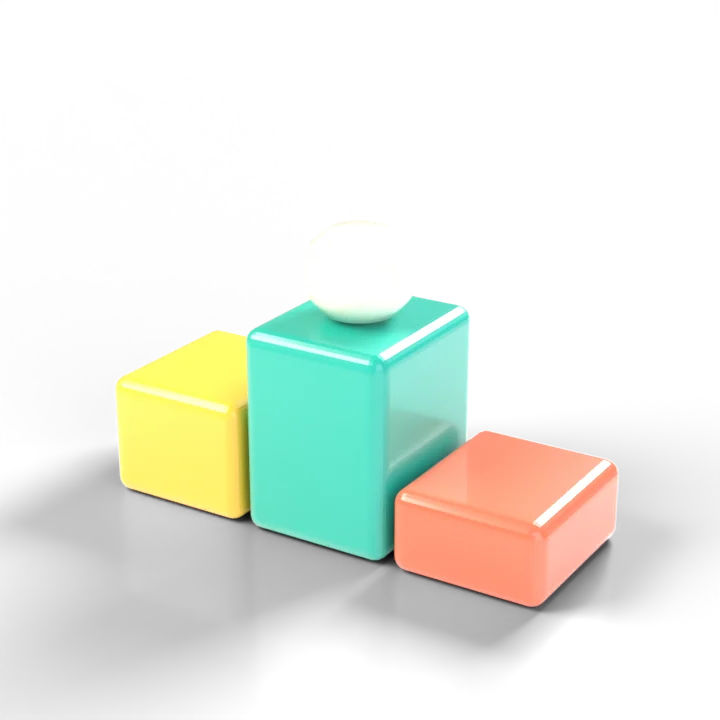
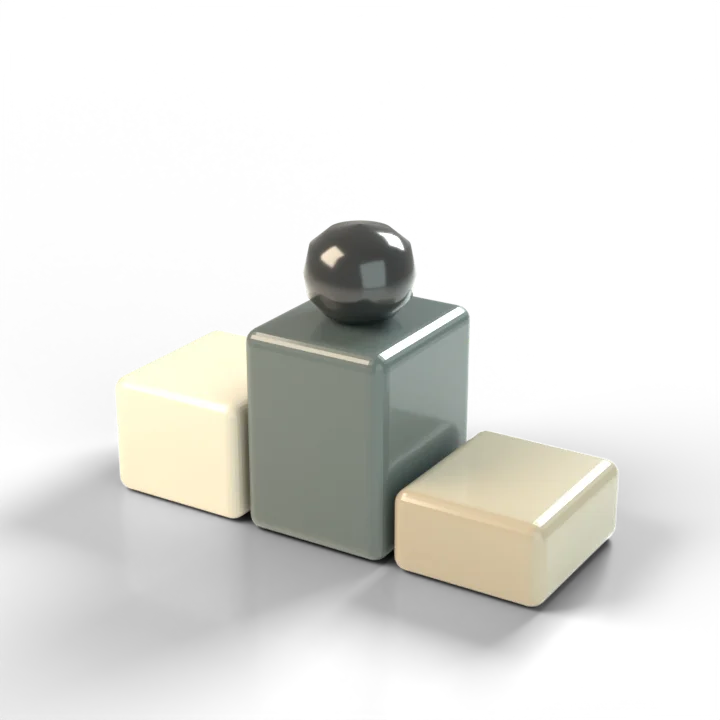
Give the next-move cards a nature palette that echoes the header
Fog teal, lamplit walnut and stone replace the candy colours; the icons
are re-rendered with ivory and ebony pieces, books in walnut, parchment
and verdigris, and a stone podium. Card text clears the arrow button.

Changed region(s): [[0.1528, 0.3056, 0.8556, 0.8556]]

diff --git a/public/css/styles.css b/public/css/styles.css
@@ -23,9 +23,9 @@
   --cine-ink: #f2f3f5;
   --cine-accent: #66d4cc;
   --you: #f2c46d;
-  --nm-play-a: #dff5f0; --nm-play-b: #bfeae2; --nm-play-ink: #07524a;
-  --nm-bench-a: #ffece4; --nm-bench-b: #ffd3c3; --nm-bench-ink: #8a2c14;
-  --nm-prof-a: #fff4d9; --nm-prof-b: #ffe3a3; --nm-prof-ink: #6e4a00;
+  --nm-play-a: #e2ecea; --nm-play-b: #c3d8d4; --nm-play-ink: #1b4a47;
+  --nm-bench-a: #f4ece0; --nm-bench-b: #e5d5bb; --nm-bench-ink: #5c3e22;
+  --nm-prof-a: #eceae4; --nm-prof-b: #d6d4cc; --nm-prof-ink: #3a3a35;
 
   --f-display: 'Archivo', 'Helvetica Neue', Arial, sans-serif;
   --f-read: 'Source Serif 4', Georgia, 'Times New Roman', serif;
@@ -48,7 +48,7 @@
     --sq-light: #2b303a; --sq-dark: #4b5363;
     --good: #5cc98f; --good-soft: #15291f; --mixed: #e0aa4a; --mixed-soft: #2c2414;
     --bad: #f08a80; --bad-soft: #321a19; --focus: #4cc9c0;
-    --nm-play-a: #12302d; --nm-play-b: #0d4741; --nm-play-ink: #a6f0e5; --nm-bench-a: #34201b; --nm-bench-b: #4d2a1f; --nm-bench-ink: #ffc7b4; --nm-prof-a: #33291a; --nm-prof-b: #4a3a17; --nm-prof-ink: #ffe0a0;
+    --nm-play-a: #11201f; --nm-play-b: #17302e; --nm-play-ink: #a3d4cd; --nm-bench-a: #261f17; --nm-bench-b: #382c1f; --nm-bench-ink: #e8cfa8; --nm-prof-a: #1e1f1d; --nm-prof-b: #2c2d2a; --nm-prof-ink: #d8d6cc;
     color-scheme: dark;
   }
 }
@@ -58,7 +58,7 @@
   --sq-light: #2b303a; --sq-dark: #4b5363;
   --good: #5cc98f; --good-soft: #15291f; --mixed: #e0aa4a; --mixed-soft: #2c2414;
   --bad: #f08a80; --bad-soft: #321a19; --focus: #4cc9c0;
-  --nm-play-a: #12302d; --nm-play-b: #0d4741; --nm-play-ink: #a6f0e5; --nm-bench-a: #34201b; --nm-bench-b: #4d2a1f; --nm-bench-ink: #ffc7b4; --nm-prof-a: #33291a; --nm-prof-b: #4a3a17; --nm-prof-ink: #ffe0a0;
+  --nm-play-a: #11201f; --nm-play-b: #17302e; --nm-play-ink: #a3d4cd; --nm-bench-a: #261f17; --nm-bench-b: #382c1f; --nm-bench-ink: #e8cfa8; --nm-prof-a: #1e1f1d; --nm-prof-b: #2c2d2a; --nm-prof-ink: #d8d6cc;
   color-scheme: dark;
 }
 
@@ -379,7 +379,7 @@ button.ps-btn:hover { background: var(--accent-soft); }
 .nm-art { width: min(100%, 15rem); height: auto; aspect-ratio: 1; justify-self: center; margin: -4px 0 -10px; -webkit-mask-image: radial-gradient(closest-side, #000 62%, transparent 100%); mask-image: radial-gradient(closest-side, #000 62%, transparent 100%); }
 .nm-k { font-family: var(--f-mono); font-size: .75rem; letter-spacing: .12em; text-transform: uppercase; color: var(--k); }
 .nm-t { font-size: var(--t-xl); font-weight: 780; font-stretch: 106%; line-height: 1.15; }
-.nm-d { color: var(--k); opacity: .86; font-size: var(--t-sm); line-height: 1.5; max-width: 30ch; }
+.nm-d { color: var(--k); opacity: .86; font-size: var(--t-sm); line-height: 1.5; max-width: 30ch; padding-right: 48px; }
 .nm-go { position: absolute; right: 20px; bottom: 20px; width: 40px; height: 40px; border-radius: 50%; display: grid; place-items: center; background: var(--k); color: var(--a); font-size: 1.1rem; box-shadow: 0 6px 12px -4px rgba(0,0,0,.35); }
 .nm:hover { box-shadow: inset 0 1px 0 rgba(255,255,255,.6), inset 0 -10px 24px rgba(0,0,0,.06), 0 2px 4px rgba(0,0,0,.08), 0 22px 40px -16px rgba(0,0,0,.42); }
 .nm:focus-visible { outline: 3px solid var(--focus); outline-offset: 4px; }

diff --git a/public/js/art.js b/public/js/art.js
@@ -7,7 +7,7 @@ window.PP = window.PP || {};
 PP.art = (function () {
   let uid = 0;
   // Bump when rendered images change, so browsers fetch the new files.
-  PP.assetV = '3';
+  PP.assetV = '4';
 
   const DOG = `<g class="dog-head">
     <path d="M-30,-6 C-46,0 -48,34 -36,44 C-30,30 -28,14 -24,4 Z" fill="#5a3f28"/>

diff --git a/tools/blender/render_icons.py b/tools/blender/render_icons.py
@@ -1,6 +1,6 @@
 """Render the three "next move" icons as glossy clay objects on transparent backgrounds.
 
-  play    a teal pawn            (your next move)
+  play    an ivory pawn          (your next move)
   bench   a stack of three books (the thinkers)
   profile a three-step podium    (your record)
 
@@ -109,9 +109,9 @@ def setup():
     w.node_tree.nodes['Background'].inputs['Strength'].default_value = 0.9
     sc.world = w
     # Soft studio: big key from upper left, fill from right, rim from behind.
-    for name, loc, size, energy, col in [('key', (-2.4, -2.2, 3.4), 2.6, 520, '#fff4e6'),
-                                         ('fill', (2.8, -1.6, 1.6), 3.0, 160, '#e6f3ff'),
-                                         ('rim', (0.6, 2.8, 2.6), 1.6, 380, '#ffffff')]:
+    for name, loc, size, energy, col in [('key', (-2.4, -2.2, 3.4), 2.6, 520, '#ffecd2'),
+                                         ('fill', (2.8, -1.6, 1.6), 3.0, 160, '#d8ecea'),
+                                         ('rim', (0.6, 2.8, 2.6), 1.6, 380, '#e4f4f2')]:
         ld = bpy.data.lights.new(name, 'AREA')
         ld.energy = energy
         ld.size = size
@@ -138,27 +138,28 @@ def render(name):
     print('icon', name)
 
 
-# Play: a teal pawn on a little coral disc.
+# Colours echo the header: fog teal, lamplit walnut, stone, and the ivory and ebony pieces.
+# Play: an ivory pawn on a fog-teal disc.
 setup()
 pawn = [(0.36, 0.0), (0.36, 0.07), (0.30, 0.11), (0.28, 0.17), (0.20, 0.23), (0.15, 0.33), (0.125, 0.62), (0.115, 0.78),
         (0.2, 0.82), (0.2, 0.87), (0.1, 0.91), (0.085, 0.95), (0.15, 1.01), (0.18, 1.09), (0.18, 1.15), (0.15, 1.23), (0.09, 1.28), (0.0, 1.30)]
-lathe('pawn', pawn, clay('teal', '#10b6a4', 0.28), (0, 0, 0.06))
-lathe('disc', [(0.62, 0.0), (0.62, 0.05), (0.58, 0.07), (0.0, 0.07)], clay('coral', '#ff6e4e', 0.35), (0, 0, 0))
+lathe('pawn', pawn, clay('ivory', '#ece4d2', 0.22), (0, 0, 0.06))
+lathe('disc', [(0.62, 0.0), (0.62, 0.05), (0.58, 0.07), (0.0, 0.07)], clay('fog', '#2c5c58', 0.3), (0, 0, 0))
 render('play')
 
-# Bench: three books, slightly fanned, coral / butter / teal.
+# Bench: three books, slightly fanned, walnut / parchment / verdigris.
 setup()
-for i, (col, w, d, rot) in enumerate([('#ff6e4e', 1.25, 0.86, 4), ('#ffc23a', 1.15, 0.8, -7), ('#10b6a4', 1.05, 0.74, 10)]):
+for i, (col, w, d, rot) in enumerate([('#7a5234', 1.25, 0.86, 4), ('#c4a46e', 1.15, 0.8, -7), ('#3d6e68', 1.05, 0.74, 10)]):
     h = 0.2
-    rbox(f'book{i}', (0, 0, h / 2 + i * (h + 0.005)), (w, d, h), clay(f'c{i}', col, 0.34), bevel=0.035).rotation_euler = (0, 0, math.radians(rot))
-    pages = rbox(f'pages{i}', (0.04, -0.012, h / 2 + i * (h + 0.005)), (w - 0.06, d - 0.02, h - 0.05), clay(f'p{i}', '#fbf6ea', 0.6), bevel=0.01)
+    rbox(f'book{i}', (0, 0, h / 2 + i * (h + 0.005)), (w, d, h), clay(f'c{i}', col, 0.42), bevel=0.035).rotation_euler = (0, 0, math.radians(rot))
+    pages = rbox(f'pages{i}', (0.04, -0.012, h / 2 + i * (h + 0.005)), (w - 0.06, d - 0.02, h - 0.05), clay(f'p{i}', '#efe7d6', 0.65), bevel=0.01)
     pages.rotation_euler = (0, 0, math.radians(rot))
-lathe('apple', [(0.0, 0.0), (0.12, 0.02), (0.17, 0.09), (0.16, 0.17), (0.1, 0.22), (0.0, 0.2)], clay('red', '#ea3f3a', 0.25), (0.2, 0.05, 0.615))
+lathe('apple', [(0.0, 0.0), (0.12, 0.02), (0.17, 0.09), (0.16, 0.17), (0.1, 0.22), (0.0, 0.2)], clay('russet', '#8e3a28', 0.35), (0.2, 0.05, 0.615))
 render('bench')
 
-# Profile: a three-step podium with a small sphere on top.
+# Profile: a stone podium with an ebony sphere on top.
 setup()
-for x, h, col in [(-0.55, 0.42, '#ffc23a'), (0.0, 0.7, '#10b6a4'), (0.55, 0.28, '#ff6e4e')]:
-    rbox(f'step{x}', (x, 0, h / 2), (0.52, 0.6, h), clay(f's{x}', col, 0.32), bevel=0.05)
-lathe('ball', [(0.0, 0.0), (0.12, 0.02), (0.17, 0.08), (0.18, 0.15), (0.16, 0.24), (0.1, 0.29), (0.0, 0.31)], clay('ivory', '#fbf3e2', 0.25), (0, 0, 0.7))
+for x, h, col in [(-0.55, 0.42, '#cfc8b8'), (0.0, 0.7, '#4e5a5a'), (0.55, 0.28, '#a89a84')]:
+    rbox(f'step{x}', (x, 0, h / 2), (0.52, 0.6, h), clay(f's{x}', col, 0.45), bevel=0.05)
+lathe('ball', [(0.0, 0.0), (0.12, 0.02), (0.17, 0.08), (0.18, 0.15), (0.16, 0.24), (0.1, 0.29), (0.0, 0.31)], clay('ebony', '#26282a', 0.18), (0, 0, 0.7))
 render('profile')
